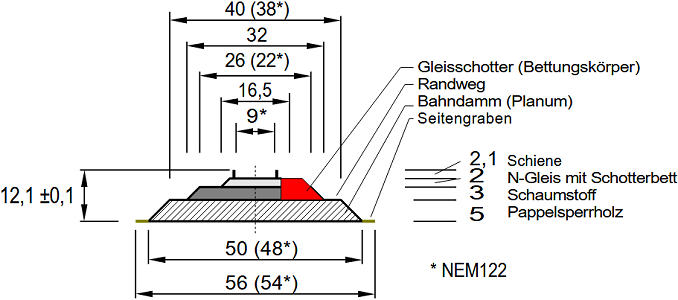
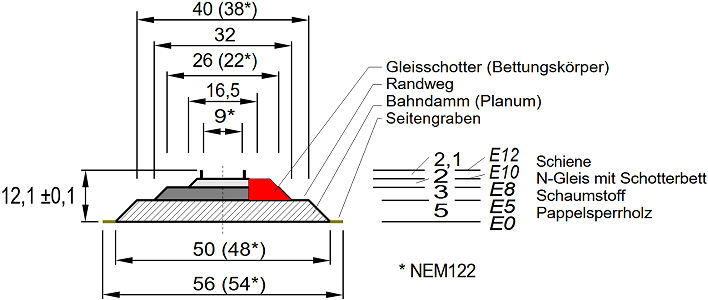
Update Module M12

Changed region(s): [[0.0, 0.0, 1.0, 1.0], [0.5575, 0.48, 0.5885, 0.51]]

diff --git a/use/module12/LIESMICH.md b/use/module12/LIESMICH.md
@@ -19,6 +19,7 @@ Diese Anleitung beschreibt den Bau eines 100 x 25 cm² großen Gleis-Moduls M12 
 | Bedienelemente | 1x OLED-Display und Taster <br> 1x Dreiwegweiche (Block W3, DCC 121 und 122) <br> 2x Zweiwegweiche (Block W2, DCC 123 und 128) <br> 1x Entkuppler (Block 1OUT, DCC 124) <br> 3x Fahrstrom (Block 2IO, DCC 125, 126 und 127) |   
 | WLAN           | SSID: &nbsp; &nbsp; &nbsp; `Raspi11` <br> Passwort: `12345678` |   
 | MQTT: IP-Adresse des Brokers (Host) | `10.1.1.1` |   
+
 <a name="x05"></a>   
 
 # Inhaltsverzeichnis   
@@ -26,24 +27,31 @@ Diese Anleitung beschreibt den Bau eines 100 x 25 cm² großen Gleis-Moduls M12 
 * [2. Bau des Modul-Rahmens](#x20)   
 * [3. Aufbau des Gleisplans](#x30)   
 
-
 [Zum Seitenanfang](#up)   
 <a name="x10"></a>   
 
 # 1. Vorbereitung und Einkauf
 ## 1.1 Entwurf des Gleisplans
 ### 1.1.1 Allgemeines zu Gleisplänen
-Beim Erstellen eines Gleisplans sind zwei Dinge zu beachten: das Lichtraumprofil und die Höhe des Gleisaufbaus. Das Lichtraumprofil gibt an, wieviel Platz (vor allem von langen Waggons) neben dem Gleis benötigt wird und ist bei engen Radien wichtig. Die Höhe des Gleisaufbaus (Bahnkörper) ist bei mehrstöckigen Anlagen oder Tunnels wichtig.   
+Beim Erstellen eines Gleisplans sind zwei Dinge zu beachten: das Lichtraumprofil und die Höhe des Gleisaufbaus.   
+Das __Lichtraumprofil__ gibt an, wieviel Platz (vor allem von langen Waggons) neben dem Gleis benötigt wird und ist bei engen Radien wichtig.   
 Für den Radius R2 benötigt man eine Gesamt-Gleisbreite von 27 + 2 · 7 = 41 mm.   
 ![Lichtraumprofil](./images/300_lichtraumprofil.png "Lichtraumprofil")   
 _Bild 1: Lichtraumprofil_   
 
-Der Bahnkörper wird aus 5 mm Sperrholz und 3 mm Schaumstoff der Fa. Noch (95962 Gleisbett-Rolle N) hergestellt und mit Gleisschotter der Firma Fleischmann (9479) verfeinert.   
+Die __Höhe des Gleisaufbaus__ (Bahnkörper) ist für die Landschaftsgestaltung und bei mehrstöckigen Anlagen oder Tunnels wichtig. Man kann verschiedene Ebenen unterscheiden.   
+* E0 . . . . . Oberkante der Basisplatte (= 6 cm über einer Tischplatte). Auf dieser Ebene werden der Bahndamm und, darauf aufbauend, das Schotterbett aufgesetzt.   
+* E5 . . . . . Oberkante des Bahndamms. Auf dieser Ebene setzt das Schotterbett auf.   
+* E8 . . . . . Auf dieser Ebene liegt das Modellgleis. Hier werden auch Modell-Bahnsteige und Bahnhöfe platziert. In der Realität gibt es diese Ebene eigentlich nicht, da sie mitten in der Höhe des Schotterbettes liegt.   
+* E10 . . . . . Oberkante des Schotterbettes bzw. Unterkante des Gleises.   
+* E12 . . . . . Oberkante des Gleises. Straßen für Bahnübersetzungen sollten dieses Niveau haben, wobei Bahnübergang-Bausätze oft eine Art "Rampe" bzw. Auffahrt haben, weil die Bausätze üblicherweise auf Ebene E8 platziert werden.   
+
 ![Aufbau Bahnk&ouml;rper](./images/300_aufbau_bahnkoerper.png "Aufbau Bahnk&ouml;rper")   
 _Bild 2: Aufbau des Bahnkörpers_   
 
-Sollte 5 mm Sperrholz nicht zur Verfügung stehen, kann man auch 4 mm Sperrholz nehmen und unterhalb ein Millimeter dicken, selbst klebenden Kork hinaufkleben.   
-Wenn man die __Breite des Bahndamms__ (Planum) mit 40 mm (oben) bzw. __50 mm__ (unten) annimmt, so ist das Lichtraumprofil in der Breite automatisch erfüllt.   
+Im Modell wird der Bahnkörper aus 5 mm Sperrholz und 3 mm Schaumstoff der Fa. Noch (95962 Gleisbett-Rolle N) hergestellt und mit Gleisschotter der Firma Fleischmann (9479) verfeinert. Mit einer Höhe von 4 mm (genauer 4,1 mm) für das Fleischmann-Gleis mit Schotterbett ergibt sich eine Gesamthöhe von 12,1 mm.   
+Sollte 5 mm Sperrholz nicht zur Verfügung stehen, kann man auch 4 mm starkes Sperrholz verwenden und auf die Unterseite einen ein Millimeter dicken, selbst klebenden Kork hinaufkleben.   
+Wenn man die __Breite des Bahndamms__ (Planum) mit 40 mm (oben) bzw. __50 mm__ (unten) annimmt, so ist das Lichtraumprofil für R2 in der Breite automatisch erfüllt.   
 __Mindesthöhe im Tunnel__: 46 mm (Höhe ab Schwellenunterkante) + 3 mm (Schotterbett) + 5 mm (Bahndamm) = __54 mm__ ab der Grundplatte.   
 
 ### 1.1.2 Entwurf des Gleisplans
